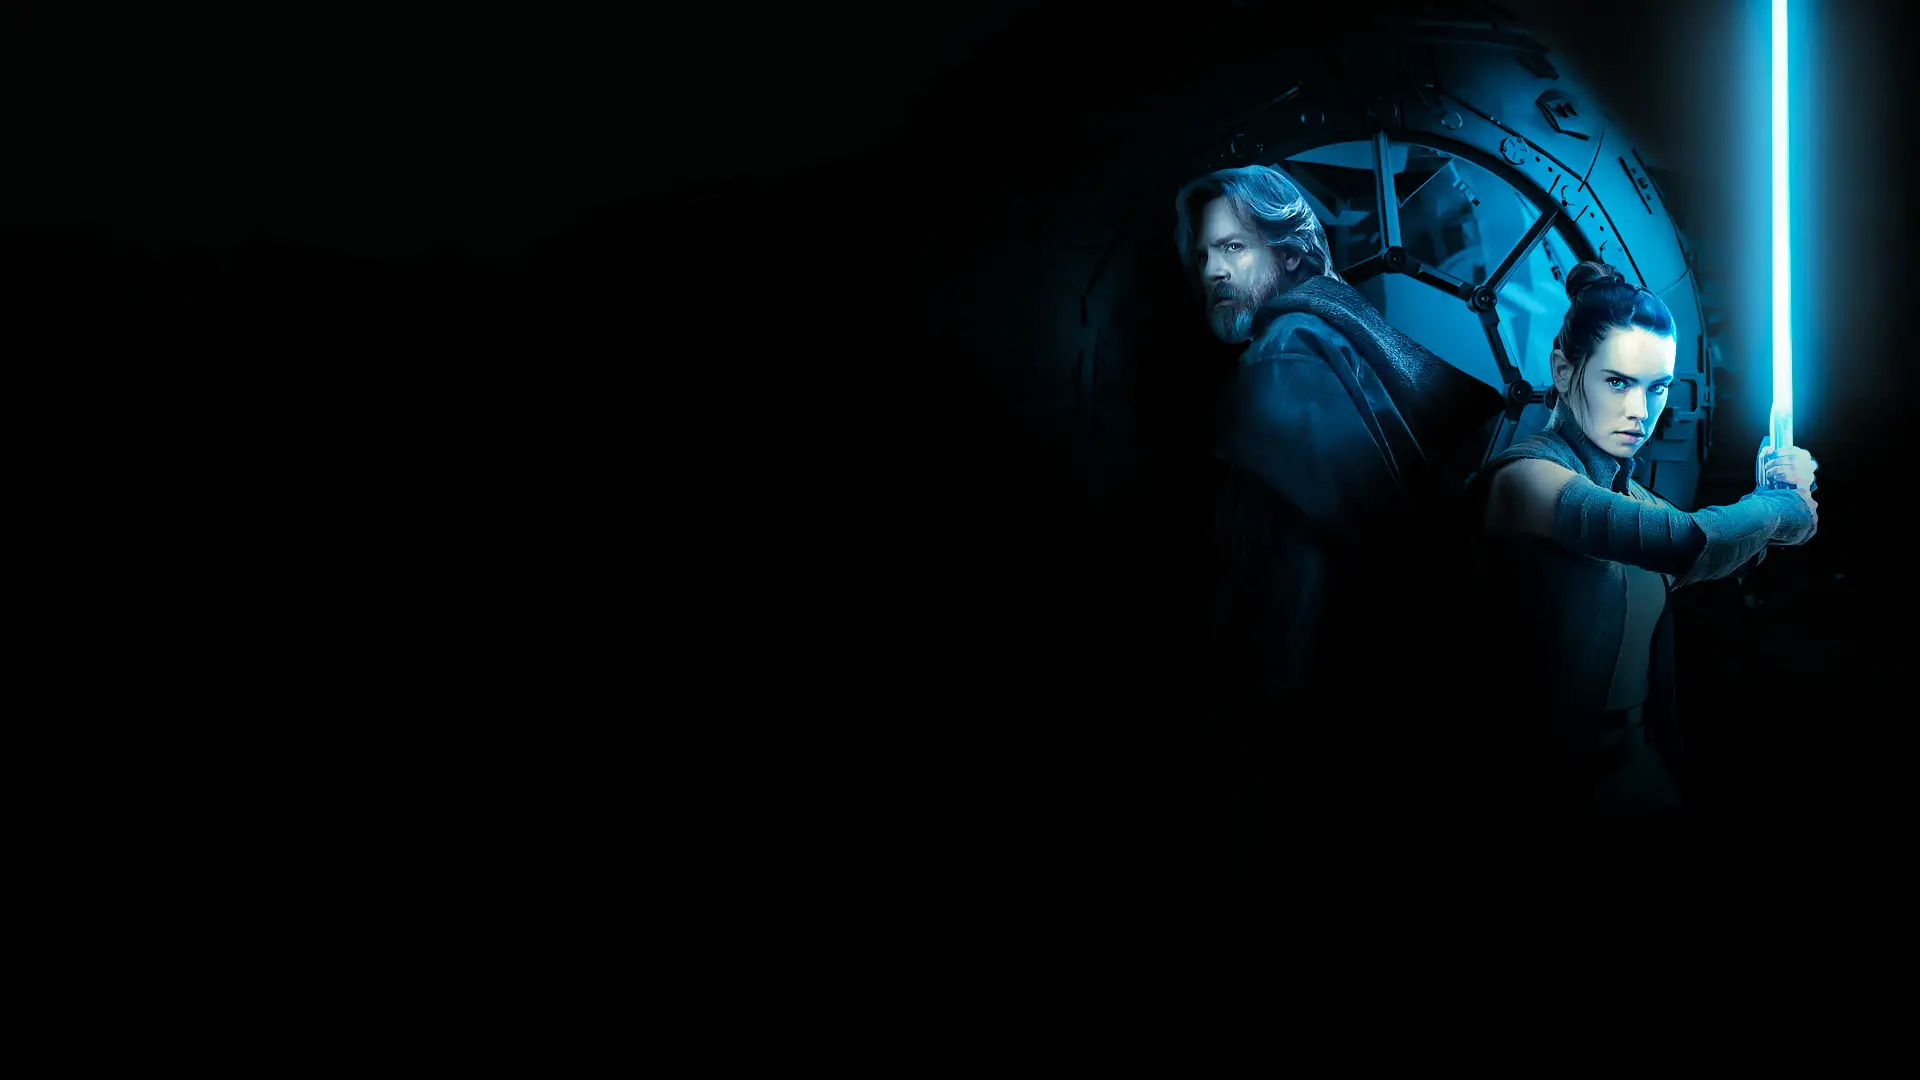
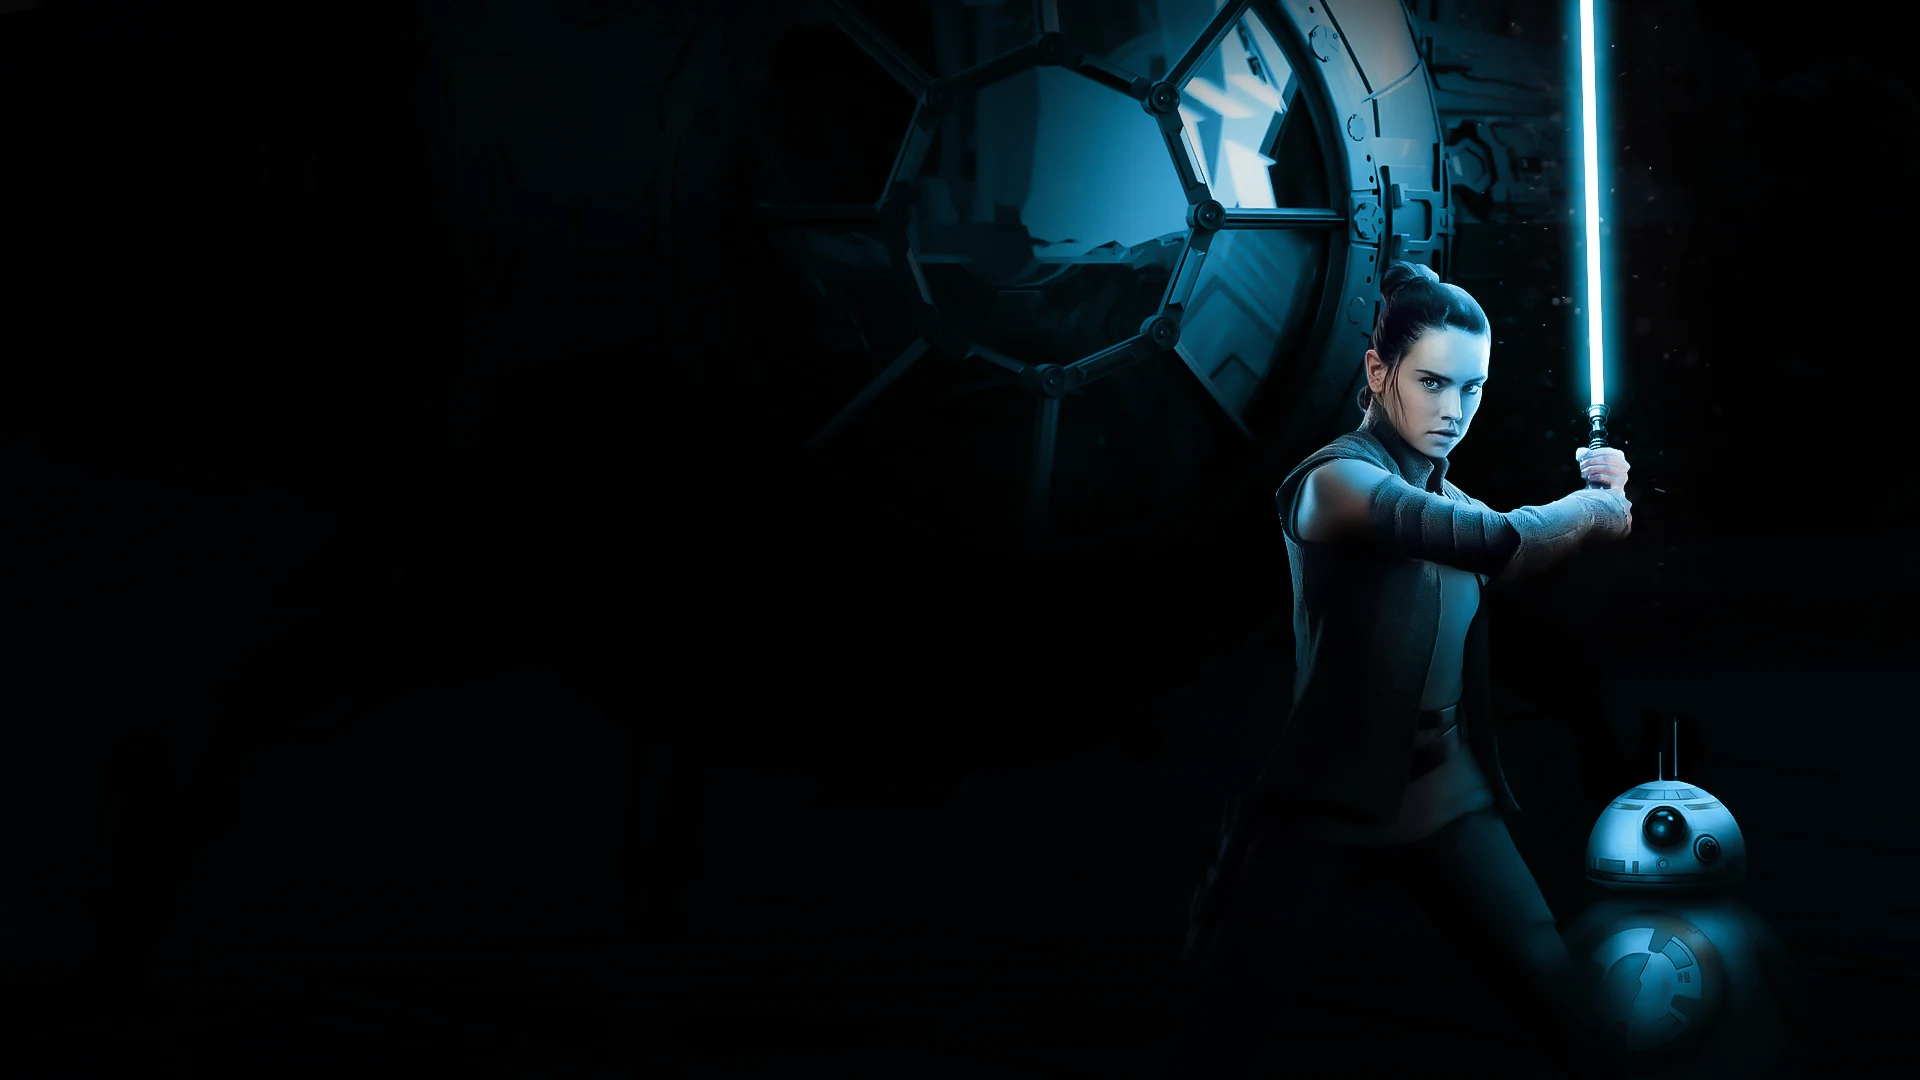
Updated Home page images. Updated button styling and the accent color.

diff --git a/src/sass/articles/_home-page.scss b/src/sass/articles/_home-page.scss
@@ -1,21 +1,39 @@
 &.home-page {
+  position: relative;
   background-color: #000;
   min-height: 100vh;
+
+  .background-image {
+    background-image: url(../../../public/images/headers/home_header.webp);
+    background-size: cover;
+    background-position: right;
+
+    @media (max-width: 1300px) {
+      opacity: 0.4;
+    }
+
+    @media (max-width: $tablet) {
+      background-image: url(../../../public/images/headers/home_header_tablet.webp);
+      background-position: center;
+    }
+  }
+
   .container {
     position: relative;
     display: flex;
     justify-content: flex-start;
-    @media (max-width: $tablet) {
+    @media (max-width: 1300px) {
       justify-content: center;
     }
 
     .image {
-      padding: 0 2rem;
-      max-width: 50rem;
+      padding: 0 1rem;
+      max-width: 70rem;
     }
+
     .content {
       width: 100%;
-      max-width: 45%;
+      max-width: 50%;
       height: 100%;
       display: flex;
       gap: 4rem;
@@ -23,9 +41,8 @@
       align-items: center;
       justify-content: center;
 
-      @media (max-width: $tablet) {
+      @media (max-width: 1300px) {
         max-width: 100%;
-        justify-content: flex-end;
       }
     }
   }

diff --git a/src/pages/Home.tsx b/src/pages/Home.tsx
@@ -6,11 +6,7 @@ export default function Home() {
   return (
     <main>
       <article className="article home-page">
-        <BackgroundImage
-          src="/images/headers/home_header.webp"
-          opacity={1}
-          position="right"
-        />
+        <div className="background-image"></div>
         <div className="container">
           <div className="content">
             <Image
@@ -20,8 +16,8 @@ export default function Home() {
               height={500}
               alt="Star Wars Logo"
             />
-            <Link to="/films" className="btn btn--large btn--secondary">
-              Explore
+            <Link to="/films" className="btn btn--large btn--primary">
+              get started
             </Link>
           </div>
         </div>

diff --git a/src/components/shared/background_image/BackgroundImage.tsx b/src/components/shared/background_image/BackgroundImage.tsx
@@ -2,16 +2,16 @@ type Props = {
   src: string;
   position?: "top" | "right" | "bottom" | "left" | "center";
   size?: "cover";
-  attachment?: "fixed";
+  attachment?: "scroll" | "fixed";
   opacity?: number;
 };
 
 export default function BackgroundImage({
   src,
-  position,
-  size,
-  attachment,
-  opacity,
+  position = "center",
+  size = "cover",
+  attachment = "scroll",
+  opacity = 0.1,
 }: Props) {
   return (
     <div
@@ -26,11 +26,3 @@ export default function BackgroundImage({
     ></div>
   );
 }
-
-BackgroundImage.defaultProps = {
-  src: "/images/headers/people_header.webp",
-  position: "center",
-  size: "cover",
-  attachment: "scroll",
-  opacity: 0.1,
-};

diff --git a/src/components/shared/buttons/button/_button.scss b/src/components/shared/buttons/button/_button.scss
@@ -17,7 +17,14 @@
 
   &--primary {
     color: $text-color-light;
-    background-color: $text-color-dark;
+    background-color: $accent-color;
+    transition: background-color $time;
+
+    @media (hover: hover) {
+      &:hover {
+        background-color: rgba($accent-color, 0.7);
+      }
+    }
   }
 
   &--secondary {

diff --git a/src/sass/partials/_variables.scss b/src/sass/partials/_variables.scss
@@ -22,5 +22,5 @@ $body-text-color-light: rgba($text-color-light, 0.7);
 $body-text-color-dark: rgba($text-color-dark, 0.7);
 
 $background-color: hsl(0, 0%, 99%);
-$accent-color: hsl(193, 88%, 44%);
+$accent-color: #0da8d3;
 $accent-color-hover: darken($accent-color, 10%);
